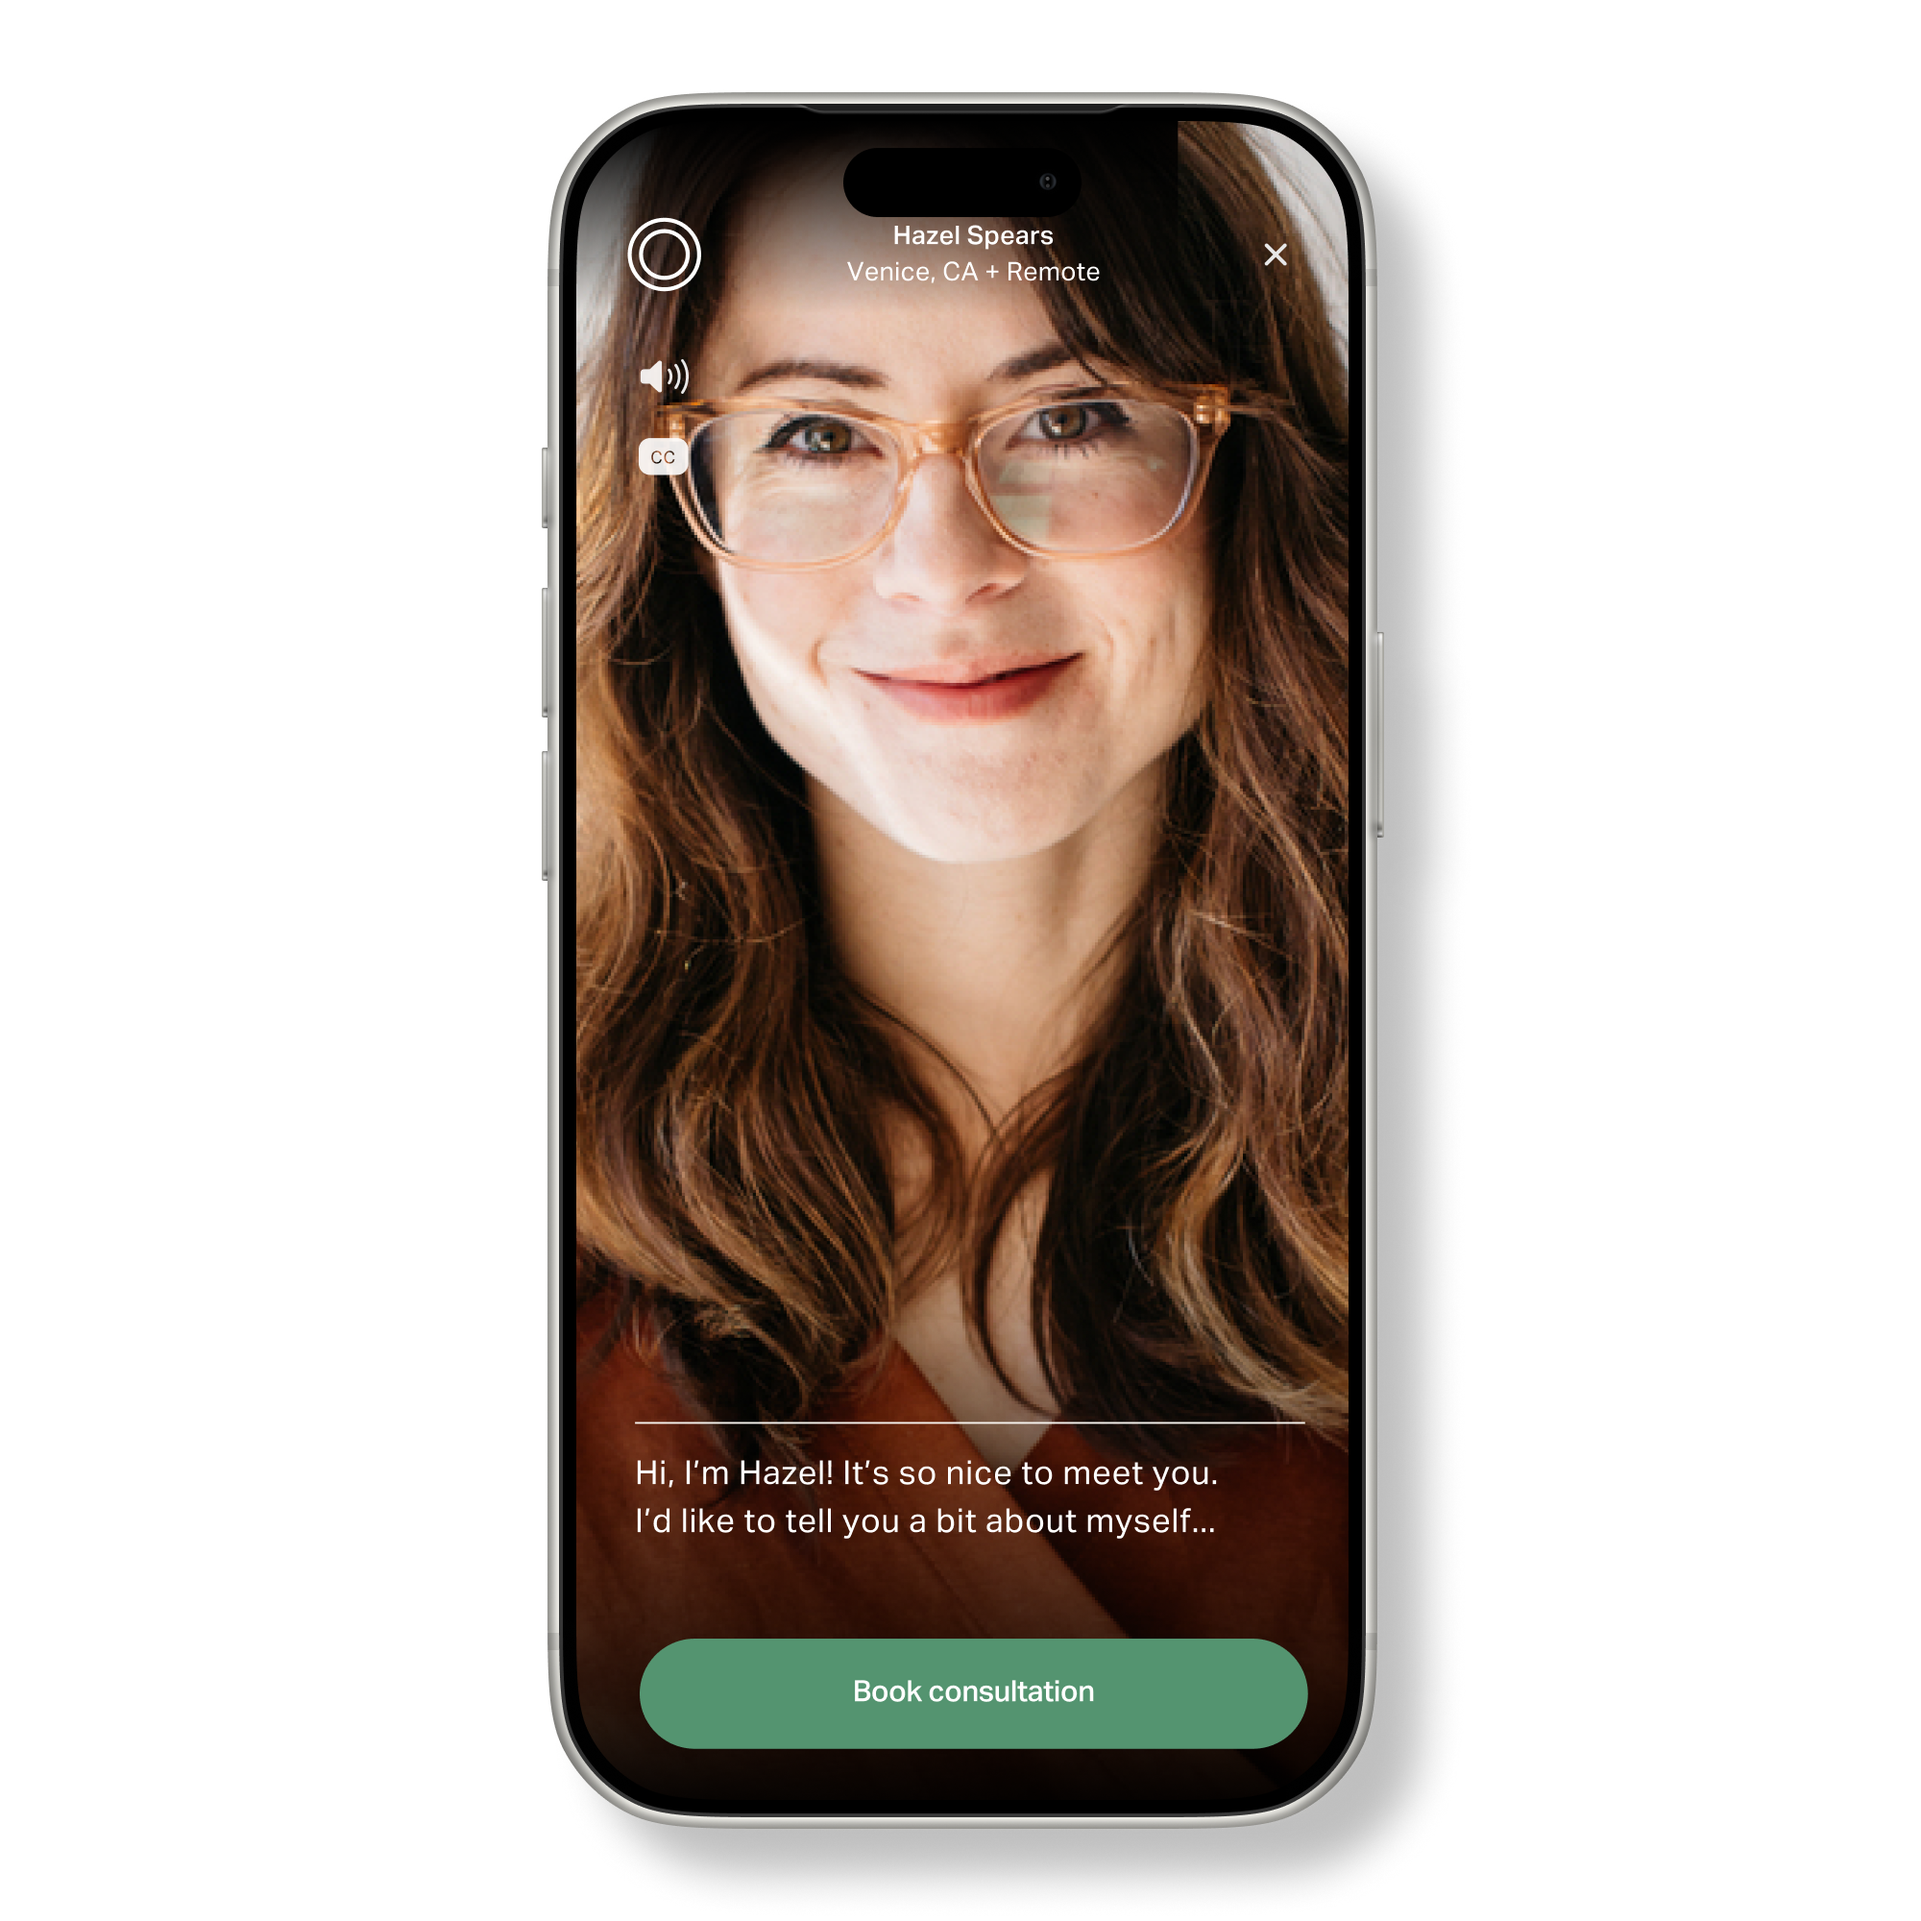
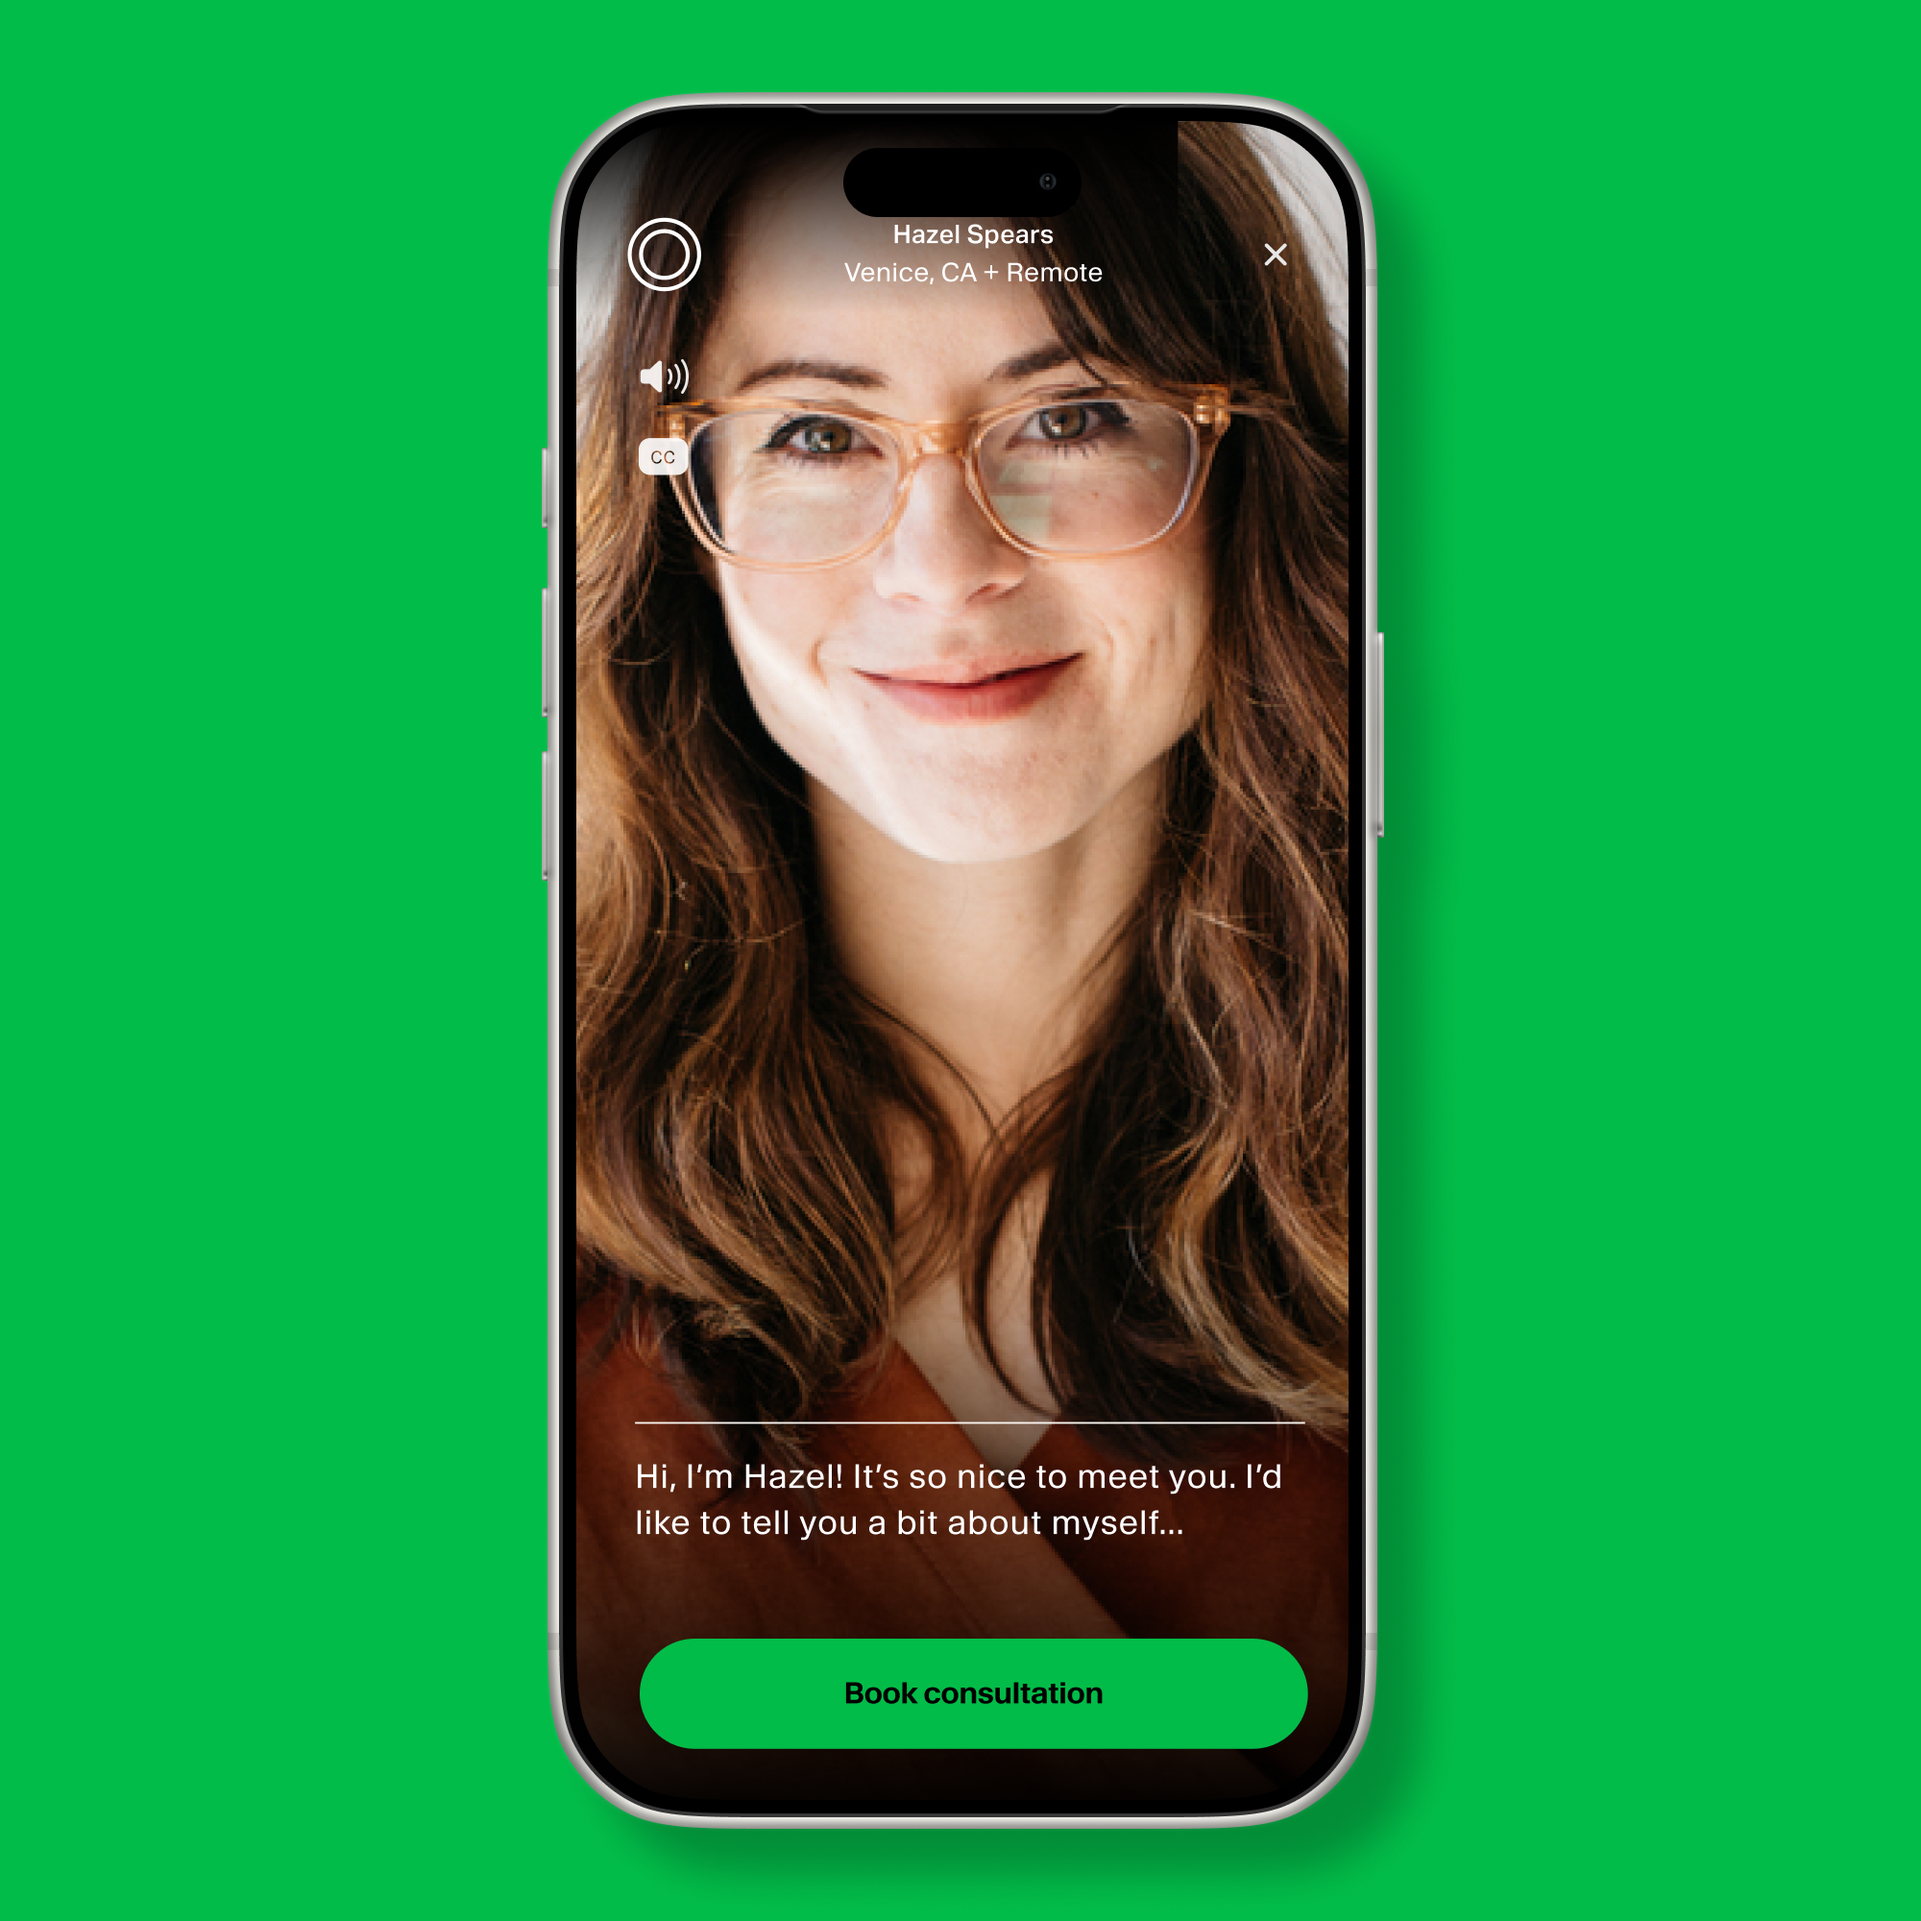
New Altruist thumbnail, tighter project spacing
- New Altruist cover; previous cover becomes the second case study image
- Project gap 60px, column gap matches the divider spacing

diff --git a/src/components/ProjectColumns.tsx b/src/components/ProjectColumns.tsx
@@ -13,9 +13,9 @@ export default function ProjectColumns({ children }: { children: ReactNode }) {
   ))
 
   return (
-    <div className="flex flex-col gap-[80px] md:grid md:grid-cols-[1fr_2fr] md:gap-x-6 md:items-start">
-      <div className="contents md:flex md:flex-col md:gap-[80px]">{items.filter((_, i) => i % 2 === 0)}</div>
-      <div className="contents md:flex md:flex-col md:gap-[80px]">{items.filter((_, i) => i % 2 === 1)}</div>
+    <div className="flex flex-col gap-[60px] md:grid md:grid-cols-[1fr_2fr] md:gap-x-4 md:items-start">
+      <div className="contents md:flex md:flex-col md:gap-[60px]">{items.filter((_, i) => i % 2 === 0)}</div>
+      <div className="contents md:flex md:flex-col md:gap-[60px]">{items.filter((_, i) => i % 2 === 1)}</div>
     </div>
   )
 }

diff --git a/src/data/index.ts b/src/data/index.ts
@@ -43,6 +43,7 @@ export const caseStudies: CaseStudy[] = [
     tags: ['Product Design', 'FinTech'],
     year: 2021,
     thumbnail: '/projects/altruist/altruist-cover.png',
+    images: ['/projects/altruist/altruist-02.png'],
   },
   {
     id: 'hazel',
